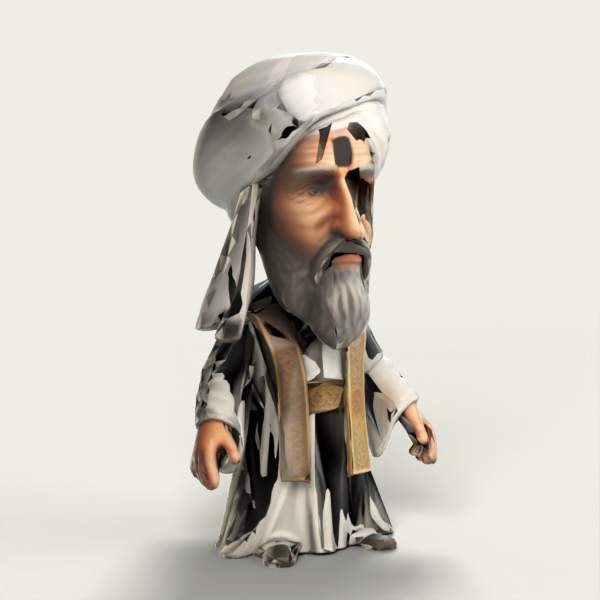
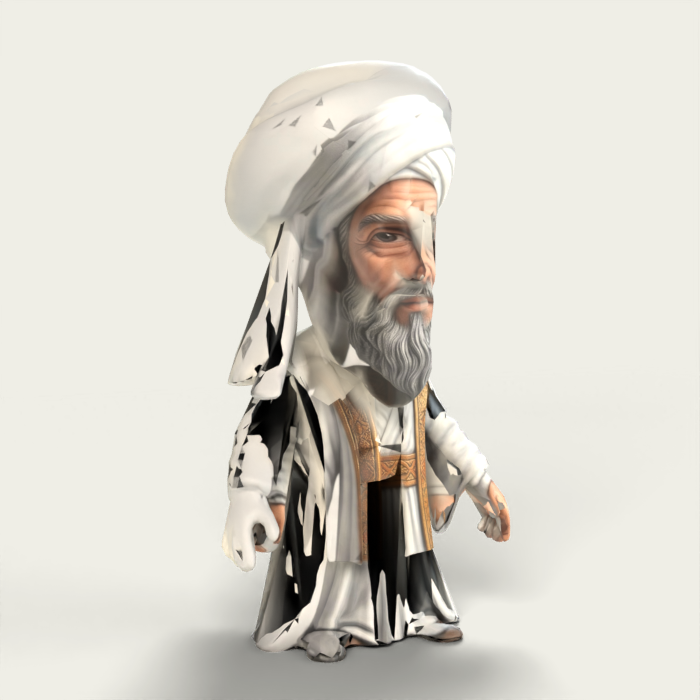
Ibn Ezra A-pose paint: project the A-pose picture, visibility-based front/back, 4K bake
Claude-Session: https://claude.ai/code/session_01CHHXmFatXNjEpDXMBfvU4V

Changed region(s): [[0.3, 0.09, 0.75, 0.96]]

diff --git a/figures/src/ibnezra_apose_paint.py b/figures/src/ibnezra_apose_paint.py
@@ -1,0 +1,122 @@
+"""Repaint the A-pose ibn Ezra from the owner's Gemini A-pose picture (front projection), with clean white cloth behind
+(hands and shoes keep their colour), baked at 4K onto the model's own UV layout so it fits the Mixamo-rigged copy."""
+import os
+import sys
+
+import numpy as np
+
+sys.path.insert(0, os.path.dirname(__file__))
+from lib import *  # noqa: E402,F401,F403
+import ibnezra_figure as F  # noqa: E402
+
+ROOT = out_dir()
+SRC = f'{ROOT}/figures/ref/ibnezra_apose_trellis.glb'
+IMG = f'{ROOT}/figures/ref/ibnezra_apose_gemini.jpg'
+OUT_TEX = f'{ROOT}/figures/build/ibn_ezra_apose_paint.png'
+
+if __name__ == '__main__':
+    F.REF_IMG = IMG
+    reset()
+    ob = F.clean_mesh(SRC)
+    pic = F.load_picture()
+    im, P = pic
+    me = ob.data
+    # a fresh, non-overlapping layout to bake into (the Mixamo copy gets it by data transfer later)
+    for uv in list(me.uv_layers):
+        me.uv_layers.remove(uv)
+    atlas = me.uv_layers.new(name='atlas')
+    me.uv_layers.active = atlas
+    bpy.context.view_layer.objects.active = ob
+    ob.select_set(True)
+    bpy.ops.object.mode_set(mode='EDIT')
+    bpy.ops.mesh.select_all(action='SELECT')
+    bpy.ops.uv.smart_project(angle_limit=1.15, island_margin=0.004)
+    bpy.ops.object.mode_set(mode='OBJECT')
+    target_uv = 'atlas'
+    F.project(ob, pic)                       # adds the 'proj' UVs and masks (white_back, skin, brass)
+    # behind: white cloth, except skin (hands) and the shoes at the bottom
+    co = np.array([v.co[:] for v in me.vertices])
+    nrm = np.array([v.normal[:] for v in me.vertices])
+    uv_u = (P['cx'] + co[:, 0] * (P['base_top'] - P['top'])) / P['w']
+    uv_v = 1 - (P['base_top'] - co[:, 2] * (P['base_top'] - P['top'])) / P['h']
+    xi = np.clip((uv_u * P['w']).astype(int), 0, P['w'] - 1)
+    yi = np.clip(((1 - uv_v) * P['h']).astype(int), 0, P['h'] - 1)
+    c = im[yi, xi]
+    r, g, b = c[:, 0], c[:, 1], c[:, 2]
+    skin = (r > g) & (g > b) & (r - b > 0.12) & (r - b < 0.45) & (r > 0.45) & (co[:, 2] < 0.55)
+    shoes = co[:, 2] < 0.05
+    # front or back by visibility (robust to inverted faces): a point takes the picture's colour only if a ray from it
+    # toward the viewer (-Y) escapes without hitting the figure
+    from mathutils.bvhtree import BVHTree
+    bvh = BVHTree.FromObject(ob, bpy.context.evaluated_depsgraph_get())
+    visible = np.zeros(len(co), bool)
+    for i, p in enumerate(co):
+        hit = bvh.ray_cast(Vector(p) + Vector((0, -0.004, 0)), Vector((0, -1, 0)), 5)
+        visible[i] = hit[0] is None
+    back = (~visible & ~(skin | shoes)).astype(float)
+    # soften the edge a little (average over each vertex's neighbours, twice)
+    nb = [[] for _ in range(len(co))]
+    for e in me.edges:
+        a_, b_ = e.vertices
+        nb[a_].append(b_); nb[b_].append(a_)
+    for _ in range(2):
+        back = np.array([(back[i] + back[n].mean()) / 2 if n else back[i] for i, n in enumerate(nb)])
+    me.color_attributes['white_back'].data.foreach_set('color', np.repeat(back[:, None], 4, axis=1).ravel())
+
+    m = bpy.data.materials.new('paint')
+    nt = m.node_tree if m.node_tree else None
+    m.use_nodes = True
+    nt = m.node_tree
+    bsdf = nt.nodes['Principled BSDF']
+    bsdf.inputs['Metallic'].default_value = 0.0
+    tex = nt.nodes.new('ShaderNodeTexImage')
+    tex.image = bpy.data.images.load(IMG)
+    tex.extension = 'EXTEND'
+    uvn = nt.nodes.new('ShaderNodeUVMap')
+    uvn.uv_map = 'proj'
+    nt.links.new(uvn.outputs['UV'], tex.inputs['Vector'])
+    att = nt.nodes.new('ShaderNodeAttribute')
+    att.attribute_name = 'white_back'
+    mix = nt.nodes.new('ShaderNodeMix')
+    mix.data_type = 'RGBA'
+    nt.links.new(att.outputs['Fac'], mix.inputs['Factor'])
+    nt.links.new(tex.outputs['Color'], mix.inputs['A'])
+    mix.inputs['B'].default_value = hexc('#e2ded6')
+    nt.links.new(mix.outputs['Result'], bsdf.inputs['Base Color'])
+    me.materials.clear()
+    me.materials.append(m)
+
+    baked = bpy.data.images.new('ibn_ezra_apose_paint', 4096, 4096)
+    tgt = nt.nodes.new('ShaderNodeTexImage')
+    tgt.image = baked
+    nt.nodes.active = tgt
+    me.uv_layers.active = me.uv_layers[target_uv]
+    s = bpy.context.scene
+    s.render.engine = 'CYCLES'
+    s.cycles.samples = 4
+    s.render.bake.use_pass_direct = False
+    s.render.bake.use_pass_indirect = False
+    s.render.bake.use_pass_color = True
+    s.render.bake.margin = 12
+    for o in bpy.data.objects:
+        o.select_set(o is ob)
+    bpy.context.view_layer.objects.active = ob
+    bpy.ops.object.bake(type='DIFFUSE', pass_filter={'COLOR'})
+    os.makedirs(os.path.dirname(OUT_TEX), exist_ok=True)
+    baked.filepath_raw = OUT_TEX
+    baked.file_format = 'PNG'
+    baked.save()
+
+    # preview with the baked texture on the model's own UVs
+    for n in (mix, att, tex, uvn):
+        nt.nodes.remove(n)
+    uvt = nt.nodes.new('ShaderNodeUVMap')
+    uvt.uv_map = target_uv
+    nt.links.new(uvt.outputs['UV'], tgt.inputs['Vector'])
+    nt.links.new(tgt.outputs['Color'], bsdf.inputs['Base Color'])
+    bsdf.inputs['Roughness'].default_value = 0.55
+    m.use_backface_culling = False
+    studio()
+    for view in ('front', '3q', 'back'):
+        render(f'{ROOT}/figures/renders/ibnezra_apose_{view}.png', view=view, target_z=0.5, dist=2.4, res=700, samples=40)
+    print('done')

diff --git a/figures/src/ibnezra_figure.py b/figures/src/ibnezra_figure.py
@@ -77,6 +77,9 @@ def clean_mesh(path=None):
     bmesh.ops.bisect_plane(bm, geom=bm.verts[:] + bm.edges[:] + bm.faces[:], plane_co=(0, 0, cut_z), plane_no=(0, 0, 1), clear_inner=True)
     boundary = [e for e in bm.edges if e.is_boundary]
     bmesh.ops.holes_fill(bm, edges=boundary, sides=0)
+    # generated meshes sometimes come with faces pointing inward: make every face point outward
+    bmesh.ops.remove_doubles(bm, verts=bm.verts, dist=1e-6)
+    bmesh.ops.recalc_face_normals(bm, faces=bm.faces)
     bm.to_mesh(me)
     bm.free()
     # normalise: feet on the origin, centred, 1 unit tall
